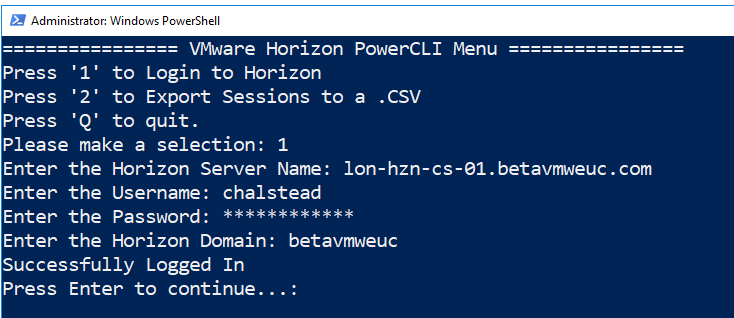
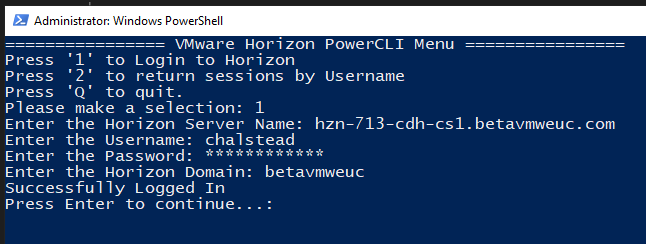
images

Changed region(s): [[0.0, 0.0, 1.0, 1.0]]

diff --git a/README.md b/README.md
@@ -1,7 +1,7 @@
 # Manage-Horizon-Sessions-By-User
 Export VMware Horizon Session Data into .CSV
 
-This script will allow you to list and manage the active Horizon sessions for a iunh
+This script will allow you to list and manage the active Horizon sessions for a user
 
 ***<u>There is no support for this tool - it is provided as-is</u>***
 
@@ -19,14 +19,14 @@ Updated May 7, 2021<br />
 
 ### Script Overview
 
-This is a PowerShell script that uses PowerCLI and the View-API to query Horizon sessions.  The session are written to a table in the script and also to a .CSV file that can be opened in Excel or a similar spreadsheet tool.
+This is a PowerShell script that uses PowerCLI and the View-API to query Horizon sessions.  You can search for sessions by user and log them off, disconnect them or send them a message
 
 ### Script Usage
 
-Run `Horizon - Sessions.ps1` 
+Run `Manage-Horizon-Sessions-ByUser.ps1` 
 
 
-   ![Menu](https://github.com/chrisdhalstead/horizon-sessions/blob/main/Images/sessionmenu.PNG)
+   ![Menu](https://github.com/chrisdhalstead/Manage-Horizon-Sessions-ByUser/blob/main/Images/mainmenu.PNG)
 
    #### Login to Horizon Connection Server
 
@@ -42,13 +42,11 @@ Choose **1** to Login to a Horizon Connection Server
 
   You will see that you are now logged in to Horizon - click enter to go back to the menu
 
-   ![Login](https://github.com/chrisdhalstead/horizon-sessions/blob/main/Images/Login.PNG)
+   ![Login](https://github.com/chrisdhalstead/Manage-Horizon-Sessions-ByUser/blob/main/Images/Login.PNG)
 
 #### Return Horizon Sessions
 
-Choose **2** to return Horizon Sessions.  They will be written to a table and also to a .CSV file in My Documents.
+Choose **2** to return Horizon Sessions.  You will be prompted for the username to search for.  
 
-   ![Sessions](https://github.com/chrisdhalstead/Horizon-Sessions/blob/main/Images/horizonsessions.png)
-
-Note that the location of the .CSV file will be written out after the script executes.
+   ![Sessions](https://github.com/chrisdhalstead/Manage-Horizon-Sessions-ByUser/blob/main/Images/getsession.png)
 
